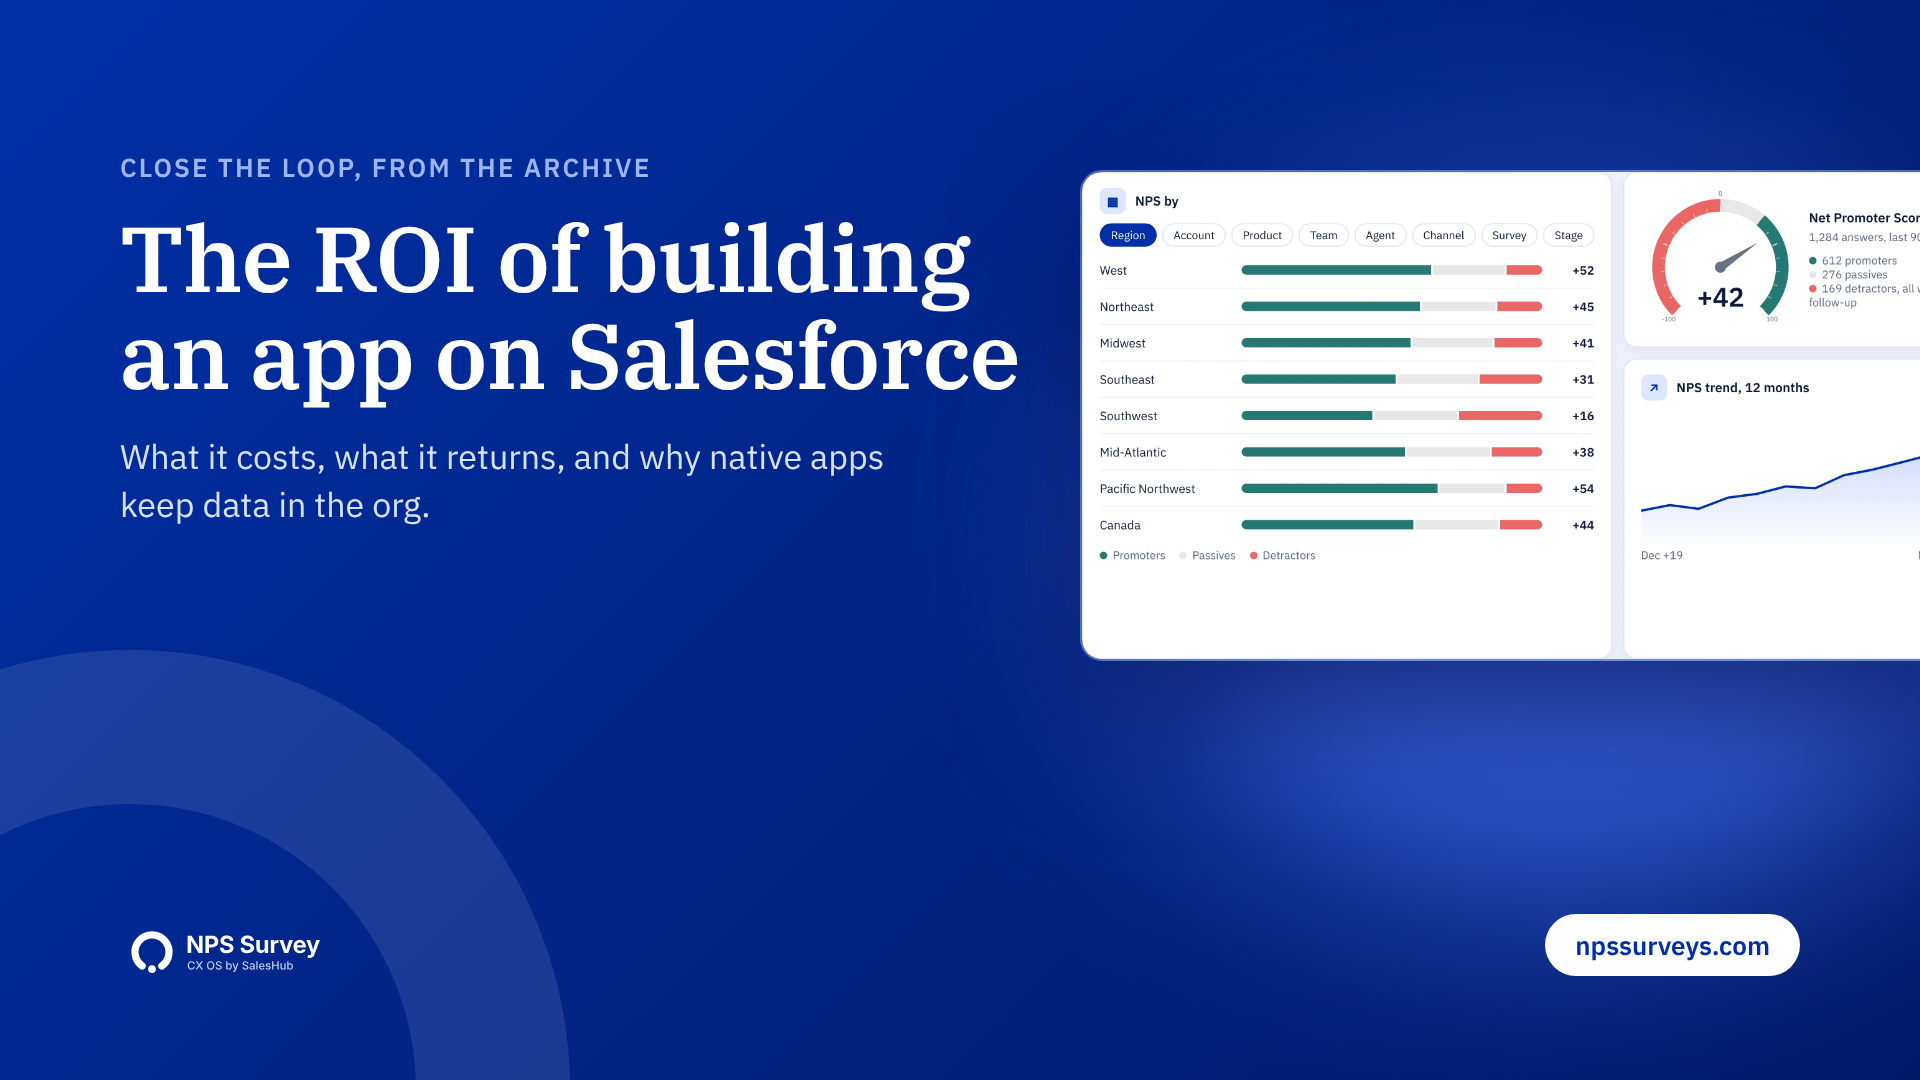
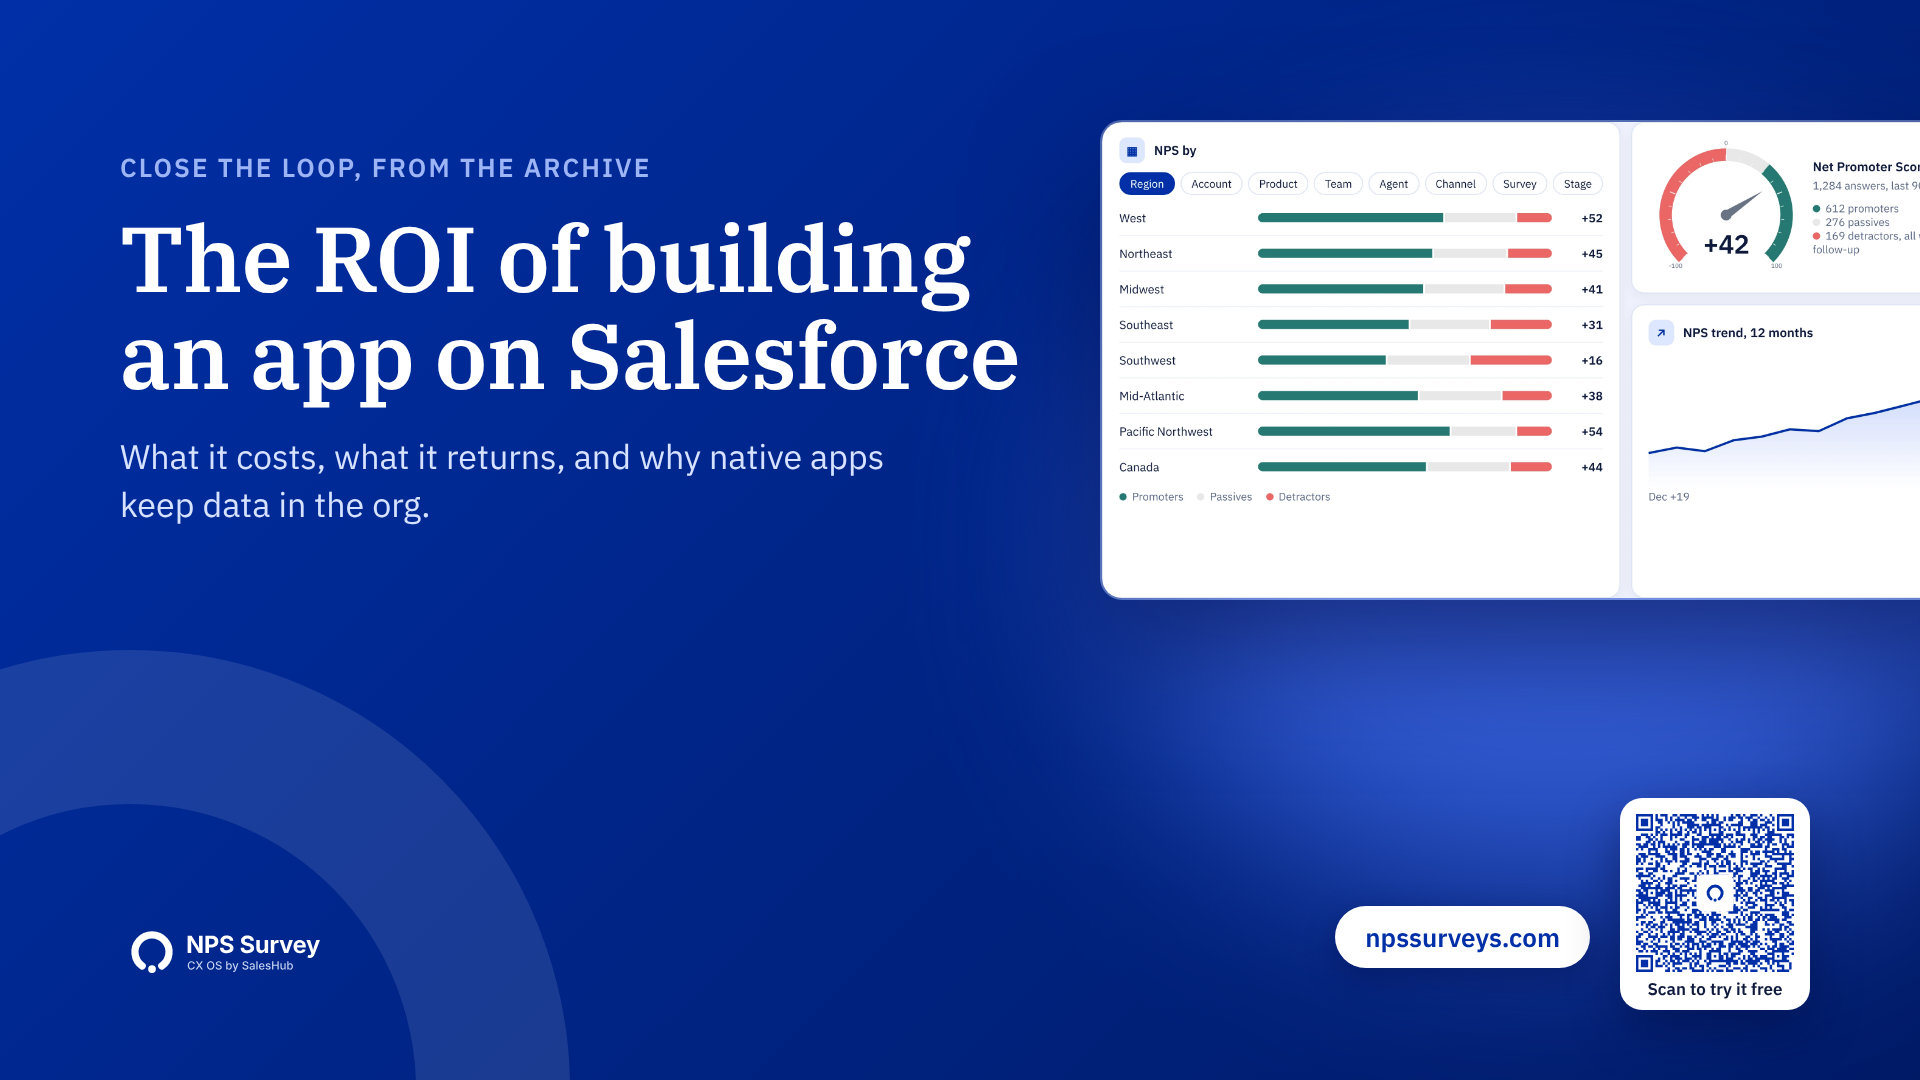
Newsletter covers: brand QR card and site pill on every cover
Claude-Session: https://claude.ai/code/session_01MY5XrxTha1JmVebUjjUfYu

diff --git a/tools/newsletter_covers.py b/tools/newsletter_covers.py
@@ -1,7 +1,7 @@
 """LinkedIn newsletter / article covers, 1920x1080, Loop brand (one hero, no yellow words)."""
 import os, sys, base64
 sys.path.insert(0, os.path.dirname(os.path.abspath(__file__)))
-import plexfont
+import plexfont, brandprint
 ROOT = os.path.dirname(os.path.dirname(os.path.abspath(__file__)))
 def uri(p):
     ext = p.rsplit(".", 1)[1]; mime = {"jpg": "jpeg", "webp": "webp", "png": "png"}[ext]
@@ -17,17 +17,19 @@ CSS = plexfont.css() + """*{margin:0;box-sizing:border-box}body{width:1920px;hei
 h1{font-family:"IBM Plex Serif";font-weight:600;font-size:92px;line-height:1.05;margin-top:26px;letter-spacing:-.01em}
 .s{font-size:34px;line-height:1.4;color:#D6E2FF;margin-top:30px;max-width:820px}
 .lk{position:absolute;left:120px;bottom:96px}
-.url{position:absolute;right:120px;bottom:104px;background:#fff;color:#002FA7;font-weight:600;font-size:26px;border-radius:99px;padding:14px 30px}
-.shot{position:absolute;right:-60px;top:170px;width:900px;border-radius:22px;box-shadow:0 50px 120px rgba(0,10,60,.55);border:2px solid rgba(255,255,255,.3)}
+.url{position:absolute;right:330px;bottom:112px;background:#fff;color:#002FA7;font-weight:600;font-size:26px;border-radius:99px;padding:14px 30px;box-shadow:0 10px 30px rgba(0,10,60,.35)}
+.qr{position:absolute;right:110px;bottom:70px;width:190px;background:#fff;border-radius:22px;padding:16px 16px 10px;text-align:center;color:#0F1A3D;box-shadow:0 20px 50px rgba(0,10,60,.45)}.qr b{display:block;font-size:17px;font-weight:600;margin-top:6px}
+.shot{position:absolute;right:-60px;top:120px;width:880px;border-radius:22px;box-shadow:0 50px 120px rgba(0,10,60,.55);border:2px solid rgba(255,255,255,.3)}
 .ph{position:absolute;right:0;top:0;bottom:0;width:820px;background-size:cover;background-position:center}
 .phf{position:absolute;right:0;top:0;bottom:0;width:820px;background:linear-gradient(90deg,#001A66 0%,rgba(0,26,102,.35) 45%,rgba(0,47,167,.15) 100%)}"""
+LIST = "https://appexchange.salesforce.com/appxListingDetail?listingId=a0N3A00000FtRTKUA3&utm_source=linkedin&utm_medium=newsletter&utm_campaign=ctl_qr"
 def cover(kicker, title, sub, shot=None, photo=None):
     right = (f'<div class="glow" style="width:900px;height:700px;right:-100px;top:200px;background:#4A78FF;opacity:.7"></div><img class="shot" src="{uri(shot)}">' if shot
              else f'<div class="ph" style="background-image:url({uri(photo)})"></div><div class="phf"></div>')
     return f"""<html><head><style>{CSS}</style></head><body><div class="c">
 <div class="hero" style="width:1100px;height:1100px;left:-420px;bottom:-560px">{MARKW}</div>{right}
 <div class="t"><div class="k">{kicker}</div><h1>{title}</h1><p class="s">{sub}</p></div>
-<div class="lk">{LOCK}</div><div class="url">npssurveys.com</div></div></body></html>"""
+<div class="lk">{LOCK}</div><div class="url">npssurveys.com</div><div class="qr">{brandprint.qr(LIST, 158)}<b>Scan to try it free</b></div></div></body></html>"""
 JOBS = [
  ("issue-01-cfo", cover("Close the Loop, issue 01", "The CFO business case for closing the loop", "The revenue model, the platform choice and a one-page case you can copy.", shot="assets/product/inbox-focus.webp")),
  ("archive-hybrid-cloud", cover("Close the Loop, from the archive", "Embracing a hybrid cloud approach", "Keep customer data where your team already works, and still use the best of the cloud.", photo="brand/photos/team-meeting.jpg")),
@@ -37,7 +39,7 @@ if __name__ == "__main__":
     from playwright.sync_api import sync_playwright
     out = os.path.join(ROOT, "files/newsletter/covers"); os.makedirs(out, exist_ok=True)
     with sync_playwright() as p:
-        b = p.chromium.launch(); pg = b.new_page(viewport={"width": 1920, "height": 1080})
+        b = p.chromium.launch(); pg = b.new_page(viewport={"width": 1920, "height": 1080}, device_scale_factor=1)
         for name, html in JOBS:
             pg.set_content(html); pg.evaluate("document.fonts.ready"); pg.wait_for_timeout(400)
             pg.screenshot(path=os.path.join(out, name + ".png"))
